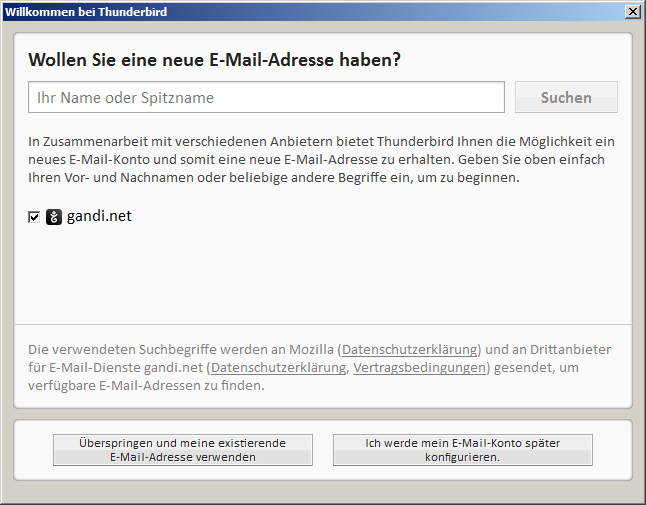
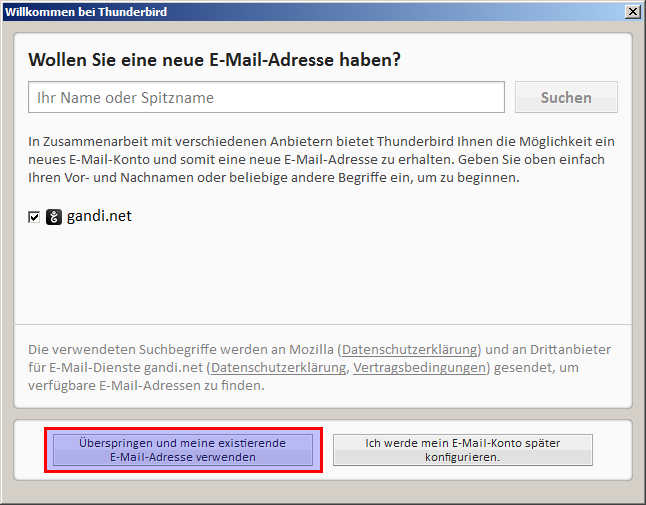
thundi

Changed region(s): [[0.0619, 0.8317, 0.5263, 0.9505]]

diff --git a/de/source/email.rst b/de/source/email.rst
@@ -37,6 +37,8 @@ Links sind drei Adressbücher zu sehen:
   * "Enigmabox" - Adressen aus dem persönlichen Adressbuch
   * "Enigmabox (Global)" - Adressen aus dem globalen Adressbuch
 
+**Anhänge verschicken:** Du kannst Anhänge bis zu 100MB via Enigmabox-E-Mail verschicken.
+
 .. _thunderbird:
 
 ***********
@@ -46,20 +48,40 @@ Thunderbird
 Konto erstellen
 ===============
 
+Klicke in der Übersicht von Thunderbird auf "E-Mail":
+
 .. image:: images/thunderbird-overview.png
+
+Dann auf "Überspringen und meine existierende E-Mail-Adresse verwenden":
 
 .. image:: images/thunderbird-new-account1.png
 
+Die E-Mail-Adresse ist *mail@box* und das Passwort ist das von dir festgelegte Passwort. Siehe auch: :ref:`set_password_web_email`
+
+Klicke dann auf "Weiter".
+
 .. image:: images/thunderbird-new-account2.png
+
+Wähle "POP3 (Nachrichten auf diesem Computer speichern)" aus und klicke danach auf "Manuell bearbeiten":
 
 .. image:: images/thunderbird-new-account3.png
 
+Passe die Einstellungen so an wie hier abgebildet:
+
 .. image:: images/thunderbird-new-account4.png
+
+Bestätige mit "Fertig".
 
 Neue Nachricht schreiben
 ========================
 
+Klicke auf "Verfassen":
+
 .. image:: images/thunderbird-inbox.png
 
+Das Nachrichtenfenster öffnet sich:
+
 .. image:: images/thunderbird-compose.png
+
+Die Fehlermeldung (rot markierte E-Mail-Adresse) kannst du ignorieren. Thunderbird kennt das Format der Enigmabox-E-Mail-Adresse nicht, obwohl diese perfekt dem Standard entspricht.
 
